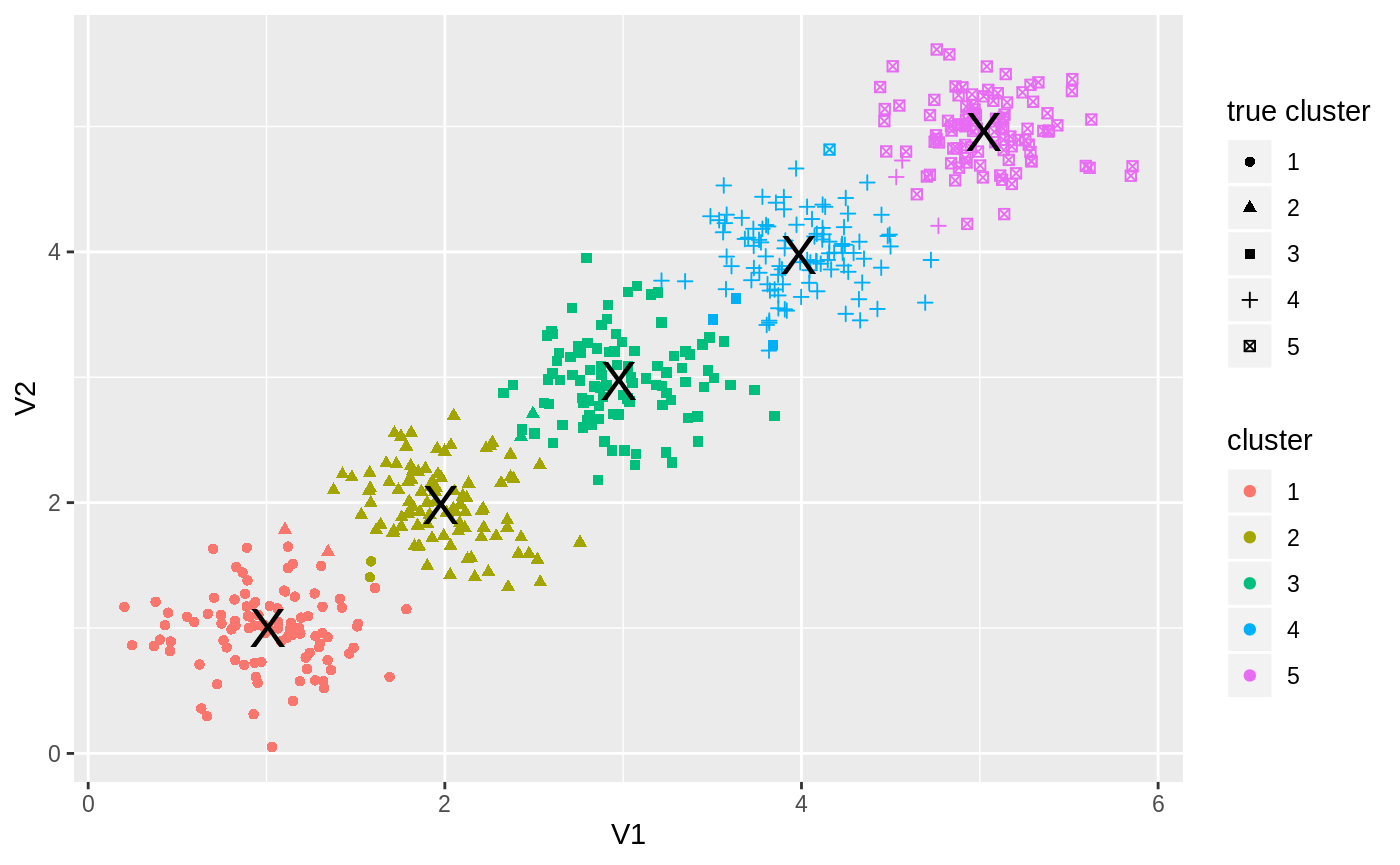
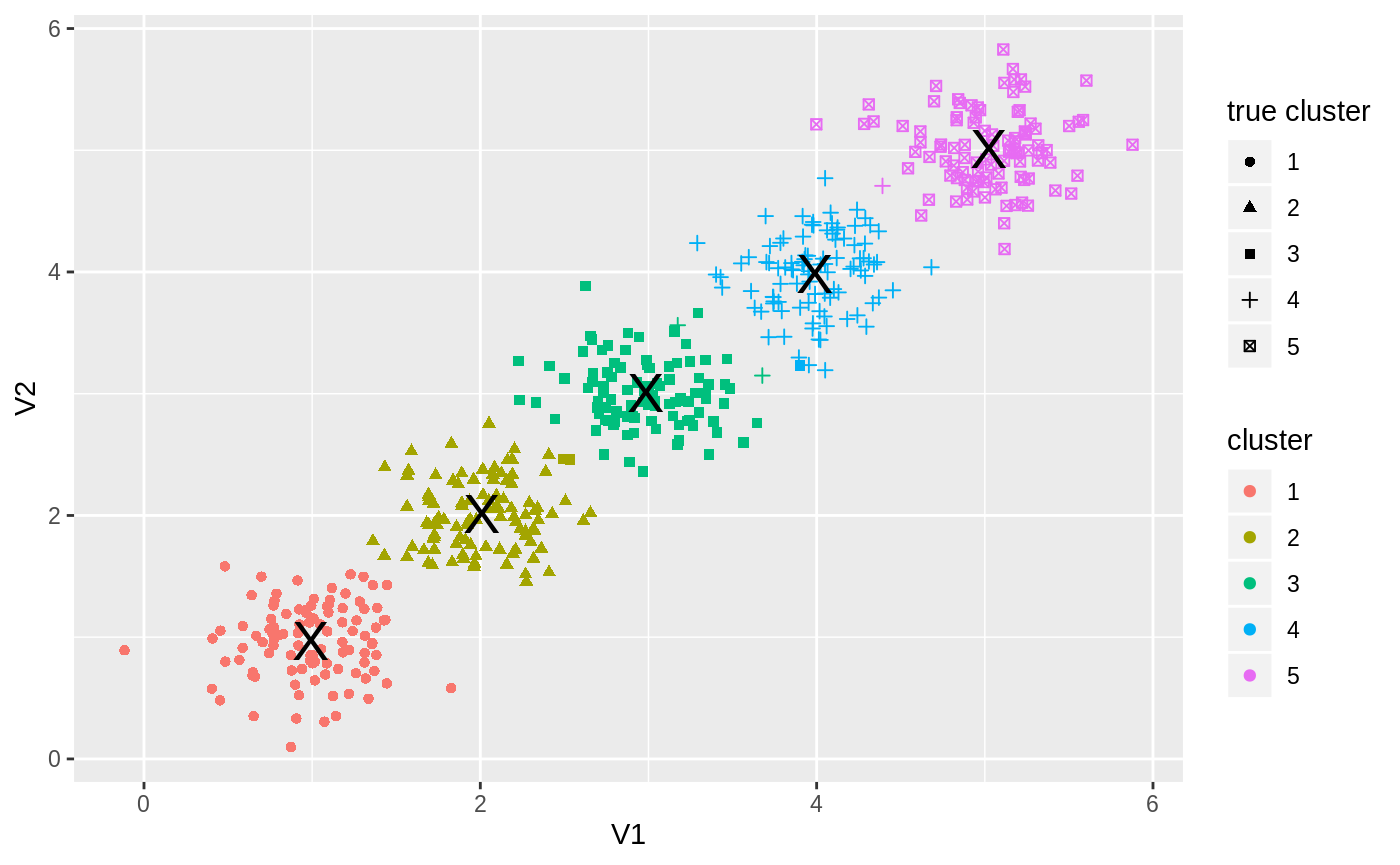
Built site for tglkmeans: 0.3.1.9000@ed5bbed

diff --git a/articles/usage.html b/articles/usage.html
@@ -106,18 +106,18 @@
 <div class="sourceCode" id="cb1"><pre class="sourceCode r"><code class="sourceCode r"><a class="sourceLine" id="cb1-1" data-line-number="1">data &lt;-<span class="st"> </span><span class="kw"><a href="../reference/simulate_data.html">simulate_data</a></span>(<span class="dt">n=</span><span class="dv">100</span>, <span class="dt">sd=</span><span class="fl">0.3</span>, <span class="dt">nclust=</span><span class="dv">5</span>, <span class="dt">dims=</span><span class="dv">2</span>)</a>
 <a class="sourceLine" id="cb1-2" data-line-number="2">data</a></code></pre></div>
 <pre><code>## # A tibble: 500 x 4
-##       id    V1    V2 true_clust
-##    &lt;int&gt; &lt;dbl&gt; &lt;dbl&gt;      &lt;int&gt;
-##  1     1 1.06  1.16           1
-##  2     2 1.24  0.803          1
-##  3     3 1.30  0.847          1
-##  4     4 1.15  0.948          1
-##  5     5 0.665 0.297          1
-##  6     6 0.928 0.312          1
-##  7     7 0.940 0.610          1
-##  8     8 0.893 1.38           1
-##  9     9 0.972 0.729          1
-## 10    10 1.19  1.08           1
+##       id     V1    V2 true_clust
+##    &lt;int&gt;  &lt;dbl&gt; &lt;dbl&gt;      &lt;int&gt;
+##  1     1  0.966 1.20           1
+##  2     2  1.07  0.306          1
+##  3     3  1.15  0.739          1
+##  4     4  0.403 0.577          1
+##  5     5  0.913 1.47           1
+##  6     6  0.961 1.22           1
+##  7     7  1.10  1.27           1
+##  8     8 -0.116 0.892          1
+##  9     9  1.32  0.660          1
+## 10    10  1.05  0.901          1
 ## # … with 490 more rows</code></pre>
 <p>This is how our data looks like:</p>
 <div class="sourceCode" id="cb3"><pre class="sourceCode r"><code class="sourceCode r"><a class="sourceLine" id="cb3-1" data-line-number="1">data <span class="op">%&gt;%</span><span class="st"> </span><span class="kw">ggplot</span>(<span class="kw">aes</span>(<span class="dt">x=</span>V1, <span class="dt">y=</span>V2, <span class="dt">color=</span><span class="kw"><a href="https://rdrr.io/r/base/factor.html">factor</a></span>(true_clust))) <span class="op">+</span><span class="st"> </span></a>
@@ -134,36 +134,38 @@
 <pre><code>## KMEans: will generate seeds
 ## KMeans into generate seeds
 ## at seed 0
-## add new core from 207 to 0
+## add new core from 307 to 0
 ## at seed 1
 ## done update min distance
 ## seed range 350 450
-## picked up 437 dist was 1.78255
-## add new core from 437 to 1
+## picked up 2 dist was 1.98063
+## add new core from 2 to 1
 ## at seed 2
 ## done update min distance
 ## seed range 300 400
-## picked up 10 dist was 1.48638
-## add new core from 10 to 2
+## picked up 449 dist was 1.13541
+## add new core from 449 to 2
 ## at seed 3
 ## done update min distance
 ## seed range 250 350
-## picked up 181 dist was 0.665879
-## add new core from 181 to 3
+## picked up 162 dist was 0.78393
+## add new core from 162 to 3
 ## at seed 4
 ## done update min distance
 ## seed range 200 300
-## picked up 313 dist was 0.70493
-## add new core from 313 to 4
+## picked up 254 dist was 0.537261
+## add new core from 254 to 4
 ## KMEans: reassign after init
 ## KMEans: iter 0
-## KMEans: iter 1 changed 8
+## KMEans: iter 1 changed 3
 ## KMEans: iter 1
-## KMEans: iter 2 changed 5
+## KMEans: iter 2 changed 2
 ## KMEans: iter 2
 ## KMEans: iter 3 changed 1
 ## KMEans: iter 3
-## KMEans: iter 4 changed 0</code></pre>
+## KMEans: iter 4 changed 1
+## KMEans: iter 4
+## KMEans: iter 5 changed 0</code></pre>
 <p>The returned list contains 3 fields:</p>
 <div class="sourceCode" id="cb7"><pre class="sourceCode r"><code class="sourceCode r"><a class="sourceLine" id="cb7-1" data-line-number="1"><span class="kw"><a href="https://rdrr.io/r/base/names.html">names</a></span>(km)</a></code></pre></div>
 <pre><code>## [1] "centers" "cluster" "size"</code></pre>
@@ -172,11 +174,11 @@
 <pre><code>## # A tibble: 5 x 3
 ##   clust    V1    V2
 ##   &lt;int&gt; &lt;dbl&gt; &lt;dbl&gt;
-## 1     1  1.98 1.98 
-## 2     2  3.98 3.97 
-## 3     3  1.01 0.997
-## 4     4  2.97 2.97 
-## 5     5  5.02 4.96</code></pre>
+## 1     1 5.02  5.01 
+## 2     2 3.99  3.98 
+## 3     3 0.990 0.966
+## 4     4 2.01  2.01 
+## 5     5 2.98  3.01</code></pre>
 <p>clusters are numbered according to <code>order_func</code> (see ‘Custom cluster ordering’ section).</p>
 <p><code>km$cluster</code> contains tibble with <code>id</code> column with the observation id (<code>1:n</code> if no id column was supplied), and <code>clust</code> column with the observation assigned cluster:</p>
 <div class="sourceCode" id="cb11"><pre class="sourceCode r"><code class="sourceCode r"><a class="sourceLine" id="cb11-1" data-line-number="1">km<span class="op">$</span>cluster</a></code></pre></div>
@@ -199,15 +201,15 @@
 <pre><code>## # A tibble: 5 x 2
 ##   clust     n
 ##   &lt;int&gt; &lt;int&gt;
-## 1     1    98
-## 2     2   101
+## 1     1   101
+## 2     2    98
 ## 3     3   100
-## 4     4    99
-## 5     5   102</code></pre>
+## 4     4   102
+## 5     5    99</code></pre>
 <p>We can now check our clustering performance - fraction of observations that were classified correctly (Note that <code>match_clusters</code> function is internal to the package and is used only in this vignette):</p>
 <div class="sourceCode" id="cb15"><pre class="sourceCode r"><code class="sourceCode r"><a class="sourceLine" id="cb15-1" data-line-number="1">d &lt;-<span class="st"> </span>tglkmeans<span class="op">:::</span><span class="kw">match_clusters</span>(data, km, <span class="dv">5</span>)</a>
 <a class="sourceLine" id="cb15-2" data-line-number="2"><span class="kw"><a href="https://rdrr.io/r/base/sum.html">sum</a></span>(d<span class="op">$</span>true_clust <span class="op">==</span><span class="st"> </span>d<span class="op">$</span>new_clust, <span class="dt">na.rm=</span><span class="ot">TRUE</span>) <span class="op">/</span><span class="st"> </span><span class="kw"><a href="https://rdrr.io/r/base/sum.html">sum</a></span>(<span class="op">!</span><span class="kw"><a href="https://rdrr.io/r/base/NA.html">is.na</a></span>(d<span class="op">$</span>new_clust))</a></code></pre></div>
-<pre><code>## [1] 0.974</code></pre>
+<pre><code>## [1] 0.988</code></pre>
 <p>And plot the results:</p>
 <div class="sourceCode" id="cb17"><pre class="sourceCode r"><code class="sourceCode r"><a class="sourceLine" id="cb17-1" data-line-number="1">d <span class="op">%&gt;%</span><span class="st"> </span><span class="kw">ggplot</span>(<span class="kw">aes</span>(<span class="dt">x=</span>V1, <span class="dt">y=</span>V2, <span class="dt">color=</span><span class="kw"><a href="https://rdrr.io/r/base/factor.html">factor</a></span>(new_clust), <span class="dt">shape=</span><span class="kw"><a href="https://rdrr.io/r/base/factor.html">factor</a></span>(true_clust))) <span class="op">+</span><span class="st"> </span></a>
 <a class="sourceLine" id="cb17-2" data-line-number="2"><span class="st">    </span><span class="kw">geom_point</span>() <span class="op">+</span><span class="st"> </span></a>
@@ -230,11 +232,11 @@
 <pre><code>## # A tibble: 5 x 3
 ##   clust    V1    V2
 ##   &lt;int&gt; &lt;dbl&gt; &lt;dbl&gt;
-## 1     1  1.01  1.00
-## 2     2  1.99  1.99
-## 3     3  2.98  2.97
-## 4     4  3.98  3.97
-## 5     5  5.02  4.96</code></pre>
+## 1     1 0.990 0.966
+## 2     2 2.01  2.01 
+## 3     3 2.98  3.01 
+## 4     4 3.99  3.98 
+## 5     5 5.02  5.01</code></pre>
 </div>
 <div id="missing-data" class="section level2">
 <h2 class="hasAnchor">
@@ -243,18 +245,18 @@
 <div class="sourceCode" id="cb20"><pre class="sourceCode r"><code class="sourceCode r"><a class="sourceLine" id="cb20-1" data-line-number="1">data<span class="op">$</span>V1[<span class="kw"><a href="https://rdrr.io/r/base/sample.html">sample</a></span>(<span class="dv">1</span><span class="op">:</span><span class="kw"><a href="https://rdrr.io/r/base/nrow.html">nrow</a></span>(data), <span class="kw"><a href="https://rdrr.io/r/base/Round.html">round</a></span>(<span class="kw"><a href="https://rdrr.io/r/base/nrow.html">nrow</a></span>(data)<span class="op">*</span><span class="fl">0.2</span>))] &lt;-<span class="st"> </span><span class="ot">NA</span></a>
 <a class="sourceLine" id="cb20-2" data-line-number="2">data</a></code></pre></div>
 <pre><code>## # A tibble: 500 x 4
-##       id    V1    V2 true_clust
-##    &lt;int&gt; &lt;dbl&gt; &lt;dbl&gt;      &lt;int&gt;
-##  1     1 1.06  1.16           1
-##  2     2 1.24  0.803          1
-##  3     3 1.30  0.847          1
-##  4     4 1.15  0.948          1
-##  5     5 0.665 0.297          1
-##  6     6 0.928 0.312          1
-##  7     7 0.940 0.610          1
-##  8     8 0.893 1.38           1
-##  9     9 0.972 0.729          1
-## 10    10 1.19  1.08           1
+##       id     V1    V2 true_clust
+##    &lt;int&gt;  &lt;dbl&gt; &lt;dbl&gt;      &lt;int&gt;
+##  1     1  0.966 1.20           1
+##  2     2  1.07  0.306          1
+##  3     3  1.15  0.739          1
+##  4     4 NA     0.577          1
+##  5     5  0.913 1.47           1
+##  6     6  0.961 1.22           1
+##  7     7  1.10  1.27           1
+##  8     8 -0.116 0.892          1
+##  9     9  1.32  0.660          1
+## 10    10  1.05  0.901          1
 ## # … with 490 more rows</code></pre>
 <div class="sourceCode" id="cb22"><pre class="sourceCode r"><code class="sourceCode r"><a class="sourceLine" id="cb22-1" data-line-number="1">km &lt;-<span class="st"> </span><span class="kw"><a href="../reference/TGL_kmeans_tidy.html">TGL_kmeans_tidy</a></span>(data <span class="op">%&gt;%</span><span class="st"> </span><span class="kw">select</span>(id, <span class="kw">starts_with</span>(<span class="st">'V'</span>)), </a>
 <a class="sourceLine" id="cb22-2" data-line-number="2">              <span class="dt">k=</span><span class="dv">5</span>, </a>
@@ -262,7 +264,7 @@
 <a class="sourceLine" id="cb22-4" data-line-number="4">              <span class="dt">verbose=</span><span class="ot">FALSE</span>)</a>
 <a class="sourceLine" id="cb22-5" data-line-number="5">d &lt;-<span class="st"> </span>tglkmeans<span class="op">:::</span><span class="kw">match_clusters</span>(data, km, <span class="dv">5</span>)</a>
 <a class="sourceLine" id="cb22-6" data-line-number="6"><span class="kw"><a href="https://rdrr.io/r/base/sum.html">sum</a></span>(d<span class="op">$</span>true_clust <span class="op">==</span><span class="st"> </span>d<span class="op">$</span>new_clust, <span class="dt">na.rm=</span><span class="ot">TRUE</span>) <span class="op">/</span><span class="st"> </span><span class="kw"><a href="https://rdrr.io/r/base/sum.html">sum</a></span>(<span class="op">!</span><span class="kw"><a href="https://rdrr.io/r/base/NA.html">is.na</a></span>(d<span class="op">$</span>new_clust))</a></code></pre></div>
-<pre><code>## [1] 0.962</code></pre>
+<pre><code>## [1] 0.978</code></pre>
 <p>and plotting the results (without the NA’s) we get:</p>
 <div class="sourceCode" id="cb24"><pre class="sourceCode r"><code class="sourceCode r"><a class="sourceLine" id="cb24-1" data-line-number="1">d <span class="op">%&gt;%</span><span class="st"> </span><span class="kw">ggplot</span>(<span class="kw">aes</span>(<span class="dt">x=</span>V1, <span class="dt">y=</span>V2, <span class="dt">color=</span><span class="kw"><a href="https://rdrr.io/r/base/factor.html">factor</a></span>(new_clust), <span class="dt">shape=</span><span class="kw"><a href="https://rdrr.io/r/base/factor.html">factor</a></span>(true_clust))) <span class="op">+</span><span class="st"> </span></a>
 <a class="sourceLine" id="cb24-2" data-line-number="2"><span class="st">    </span><span class="kw">geom_point</span>() <span class="op">+</span><span class="st"> </span></a>
@@ -294,7 +296,7 @@
 <a class="sourceLine" id="cb29-3" data-line-number="3"></a>
 <a class="sourceLine" id="cb29-4" data-line-number="4">d &lt;-<span class="st"> </span>tglkmeans<span class="op">:::</span><span class="kw">match_clusters</span>(data, km_standard, <span class="dv">30</span>)</a>
 <a class="sourceLine" id="cb29-5" data-line-number="5"><span class="kw"><a href="https://rdrr.io/r/base/sum.html">sum</a></span>(d<span class="op">$</span>true_clust <span class="op">==</span><span class="st"> </span>d<span class="op">$</span>new_clust, <span class="dt">na.rm=</span><span class="ot">TRUE</span>) <span class="op">/</span><span class="st"> </span><span class="kw"><a href="https://rdrr.io/r/base/sum.html">sum</a></span>(<span class="op">!</span><span class="kw"><a href="https://rdrr.io/r/base/NA.html">is.na</a></span>(d<span class="op">$</span>new_clust))</a></code></pre></div>
-<pre><code>## [1] 0.6818182</code></pre>
+<pre><code>## [1] 0.7142857</code></pre>
 <p>We can see that kmeans++ clusters siginifcantly better than R vannila kmeans.</p>
 </div>
 <div id="random-seed" class="section level2">

diff --git a/reference/TGL_kmeans_tidy.html b/reference/TGL_kmeans_tidy.html
@@ -234,46 +234,40 @@ if NULL, no reordering would be done.</p></td>
 <span class='no'>km</span> <span class='kw'>&lt;-</span> <span class='fu'>TGL_kmeans_tidy</span>(<span class='no'>d</span>, <span class='kw'>k</span> <span class='kw'>=</span> <span class='fl'>5</span>, <span class='st'>"euclid"</span>, <span class='kw'>verbose</span> <span class='kw'>=</span> <span class='fl'>TRUE</span>)</div><div class='output co'>#&gt; <span class='message'>id column: id</span></div><div class='output co'>#&gt; KMEans: will generate seeds
 #&gt; KMeans into generate seeds
 #&gt; at seed 0
-#&gt; add new core from 69 to 0
+#&gt; add new core from 32 to 0
 #&gt; at seed 1
 #&gt; done update min distance
 #&gt; seed range 350 450
-#&gt; picked up 475 dist was 2.77323
-#&gt; add new core from 475 to 1
+#&gt; picked up 473 dist was 2.88463
+#&gt; add new core from 473 to 1
 #&gt; at seed 2
 #&gt; done update min distance
 #&gt; seed range 300 400
-#&gt; picked up 239 dist was 1.32572
-#&gt; add new core from 239 to 2
+#&gt; picked up 259 dist was 1.3571
+#&gt; add new core from 259 to 2
 #&gt; at seed 3
 #&gt; done update min distance
 #&gt; seed range 250 350
-#&gt; picked up 124 dist was 0.669747
-#&gt; add new core from 124 to 3
+#&gt; picked up 319 dist was 0.74959
+#&gt; add new core from 319 to 3
 #&gt; at seed 4
 #&gt; done update min distance
 #&gt; seed range 200 300
-#&gt; picked up 467 dist was 0.466379
-#&gt; add new core from 467 to 4
+#&gt; picked up 106 dist was 0.616325
+#&gt; add new core from 106 to 4
 #&gt; KMEans: reassign after init
 #&gt; KMEans: iter 0
-#&gt; KMEans: iter 1 changed 44
+#&gt; KMEans: iter 1 changed 3
 #&gt; KMEans: iter 1
-#&gt; KMEans: iter 2 changed 42
+#&gt; KMEans: iter 2 changed 2
 #&gt; KMEans: iter 2
-#&gt; KMEans: iter 3 changed 24
-#&gt; KMEans: iter 3
-#&gt; KMEans: iter 4 changed 5
-#&gt; KMEans: iter 4
-#&gt; KMEans: iter 5 changed 1
-#&gt; KMEans: iter 5
-#&gt; KMEans: iter 6 changed 0</div><div class='input'><span class='no'>km</span></div><div class='output co'>#&gt; $centers
+#&gt; KMEans: iter 3 changed 0</div><div class='input'><span class='no'>km</span></div><div class='output co'>#&gt; $centers
 #&gt; # A tibble: 5 x 3
 #&gt;   clust    V1    V2
 #&gt;   &lt;int&gt; &lt;dbl&gt; &lt;dbl&gt;
-#&gt; 1     1 5.00  4.99 
+#&gt; 1     1 3.03  3.01 
 #&gt; 2     2 0.945 0.926
-#&gt; 3     3 3.03  3.01 
+#&gt; 3     3 5.00  4.99 
 #&gt; 4     4 4.04  4.04 
 #&gt; 5     5 1.96  2.02 
 #&gt; 
@@ -297,9 +291,9 @@ if NULL, no reordering would be done.</p></td>
 #&gt; # A tibble: 5 x 2
 #&gt;   clust     n
 #&gt;   &lt;int&gt; &lt;int&gt;
-#&gt; 1     1    99
+#&gt; 1     1   101
 #&gt; 2     2    98
-#&gt; 3     3   101
+#&gt; 3     3    99
 #&gt; 4     4   100
 #&gt; 5     5   102
 #&gt; </div></pre>

diff --git a/reference/TGL_kmeans.html b/reference/TGL_kmeans.html
@@ -234,34 +234,36 @@ if NULL, no reordering would be done.</p></td>
 <span class='no'>km</span> <span class='kw'>&lt;-</span> <span class='fu'>TGL_kmeans</span>(<span class='no'>d</span>, <span class='kw'>k</span> <span class='kw'>=</span> <span class='fl'>5</span>, <span class='st'>"euclid"</span>, <span class='kw'>verbose</span> <span class='kw'>=</span> <span class='fl'>TRUE</span>)</div><div class='output co'>#&gt; <span class='message'>id column: id</span></div><div class='output co'>#&gt; KMEans: will generate seeds
 #&gt; KMeans into generate seeds
 #&gt; at seed 0
-#&gt; add new core from 271 to 0
+#&gt; add new core from 255 to 0
 #&gt; at seed 1
 #&gt; done update min distance
 #&gt; seed range 350 450
-#&gt; picked up 406 dist was 1.48905
+#&gt; picked up 406 dist was 1.56642
 #&gt; add new core from 406 to 1
 #&gt; at seed 2
 #&gt; done update min distance
 #&gt; seed range 300 400
-#&gt; picked up 33 dist was 1.2727
-#&gt; add new core from 33 to 2
+#&gt; picked up 15 dist was 1.22035
+#&gt; add new core from 15 to 2
 #&gt; at seed 3
 #&gt; done update min distance
 #&gt; seed range 250 350
-#&gt; picked up 328 dist was 0.733069
-#&gt; add new core from 328 to 3
+#&gt; picked up 324 dist was 0.759561
+#&gt; add new core from 324 to 3
 #&gt; at seed 4
 #&gt; done update min distance
 #&gt; seed range 200 300
-#&gt; picked up 160 dist was 0.586651
-#&gt; add new core from 160 to 4
+#&gt; picked up 174 dist was 0.537412
+#&gt; add new core from 174 to 4
 #&gt; KMEans: reassign after init
 #&gt; KMEans: iter 0
-#&gt; KMEans: iter 1 changed 6
+#&gt; KMEans: iter 1 changed 3
 #&gt; KMEans: iter 1
-#&gt; KMEans: iter 2 changed 4
+#&gt; KMEans: iter 2 changed 9
 #&gt; KMEans: iter 2
-#&gt; KMEans: iter 3 changed 0</div><div class='input'><span class='fu'><a href='https://rdrr.io/r/base/names.html'>names</a></span>(<span class='no'>km</span>)</div><div class='output co'>#&gt; [1] "cluster" "centers" "size"   </div><div class='input'><span class='no'>km</span>$<span class='no'>centers</span></div><div class='output co'>#&gt;            V1       V2
+#&gt; KMEans: iter 3 changed 1
+#&gt; KMEans: iter 3
+#&gt; KMEans: iter 4 changed 0</div><div class='input'><span class='fu'><a href='https://rdrr.io/r/base/names.html'>names</a></span>(<span class='no'>km</span>)</div><div class='output co'>#&gt; [1] "cluster" "centers" "size"   </div><div class='input'><span class='no'>km</span>$<span class='no'>centers</span></div><div class='output co'>#&gt;            V1       V2
 #&gt; [1,] 2.000776 2.053331
 #&gt; [2,] 3.969391 4.038842
 #&gt; [3,] 1.019032 1.034553
